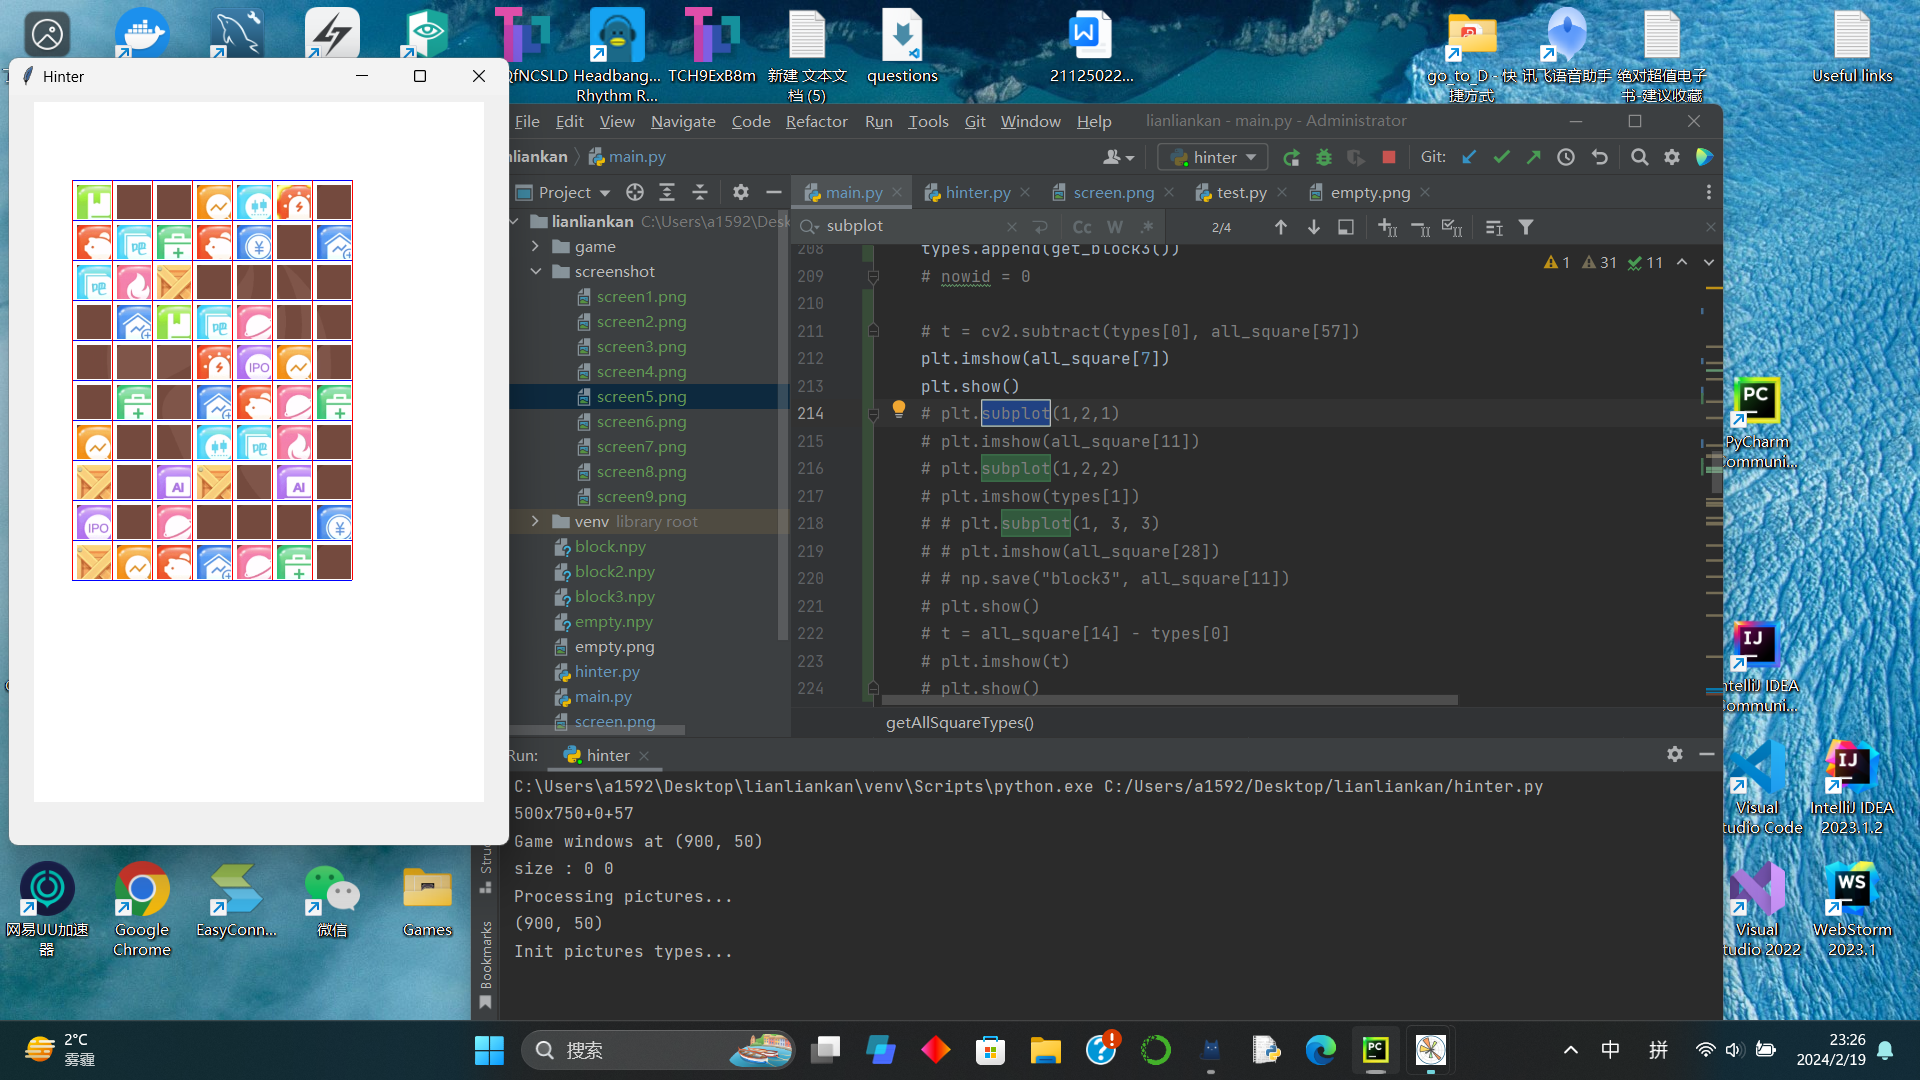
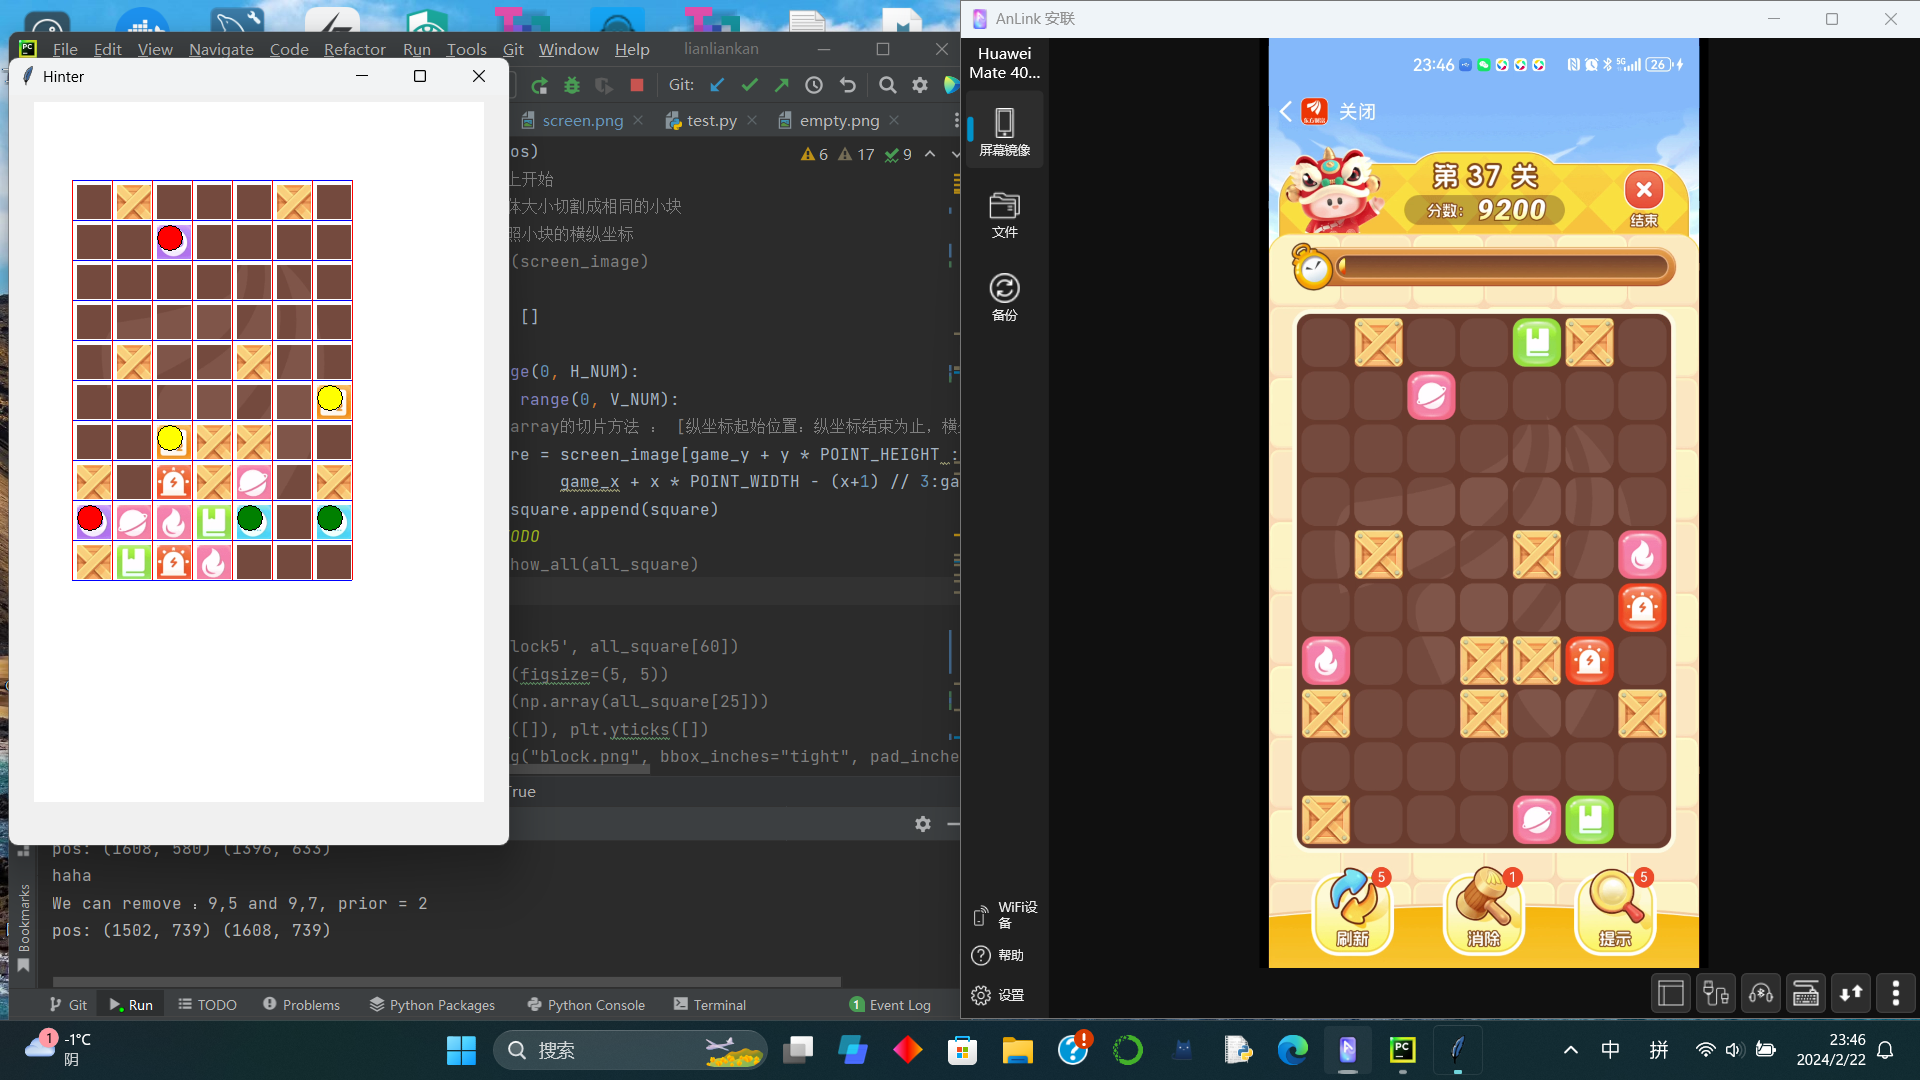
final version

diff --git a/hinter.py b/hinter.py
@@ -18,8 +18,8 @@ from main import getAllSquareTypes, getAllSquareRecord, canConnect
 DEBUG = False # 如果玩的是自带的游戏，设为True,反之设为false
 WINDOW_TITLE = "LetsView[屏幕镜像]"
 # 时间间隔随机生成 [MIN,MAX]
-TIME_INTERVAL_MAX = 0.6
-TIME_INTERVAL_MIN = 1
+TIME_INTERVAL_MAX = 0.1
+TIME_INTERVAL_MIN = 0.15
 # 游戏区域距离顶点的x偏移
 MARGIN_LEFT = 400 # 410
 # 游戏区域距离顶点的y偏移
@@ -36,15 +36,17 @@ POINT_HEIGHT = 53
 EMPTY_ID = 0
 BLOCK_ID = 5
 # 切片处理时候的左上、右下坐标：
-SUB_LT_X = 8
-SUB_LT_Y = 8
-SUB_RB_X = 42
-SUB_RB_Y = 42
+SUB_LT_X = 10
+SUB_LT_Y = 12
+SUB_RB_X = 44
+SUB_RB_Y = 46
 # 游戏的最多消除次数
 MAX_ROUND = 10000
 WINDOW_X = 900
 WINDOW_Y = 50
 
+GAME_X = 1290
+GAME_Y = 315
 
 def debug_init():
     global WINDOW_TITLE, TIME_INTERVAL_MAX, TIME_INTERVAL_MIN, MARGIN_LEFT, MARGIN_HEIGHT, H_NUM, V_NUM, \
@@ -95,12 +97,14 @@ def getAllSquare(screen_image, game_pos):
     for x in range(0, H_NUM):
         for y in range(0, V_NUM):
             # ndarray的切片方法 ： [纵坐标起始位置：纵坐标结束为止，横坐标起始位置：横坐标结束位置]
-            square = screen_image[game_y + y * POINT_HEIGHT + y // 5:game_y + (y + 1) * POINT_HEIGHT + y // 5,
+            square = screen_image[game_y + y * POINT_HEIGHT :game_y + (y + 1) * POINT_HEIGHT,
                      game_x + x * POINT_WIDTH - (x+1) // 3:game_x + (x + 1) * POINT_WIDTH - (x+1) // 3]
             all_square.append(square)
     if True: # TODO
-        main.show_all(all_square)
+        # main.show_all(all_square)
         pass
+
+    # np.save('block5', all_square[60])
     # plt.figure(figsize=(5, 5))
     # plt.imshow(np.array(all_square[25]))
     # plt.xticks([]), plt.yticks([])
@@ -226,29 +230,29 @@ def hint_one(result, prior):
                                 print('We can remove ：' + str(i) + ',' + str(j) + ' and ' + str(m) + ',' + str(
                                     n) + ", prior =", prior)
                                 hinter.hint(i - 1, j - 1, m - 1, n - 1, prior)
-                                # # 计算当前两个位置的图片在游戏中应该存在的位置
-                                # x1 = game_x + (j - 1) * POINT_WIDTH
-                                # y1 = game_y + (i - 1) * POINT_HEIGHT
-                                # x2 = game_x + (n - 1) * POINT_WIDTH
-                                # y2 = game_y + (m - 1) * POINT_HEIGHT
-                                # print("pos: " + str((x1, y1)) + " " + str((x2, y2)))
-                                # # 模拟鼠标点击第一个图片所在的位置
-                                # win32api.SetCursorPos((x1 + POINT_WIDTH // 2, y1 + POINT_HEIGHT // 2))
-                                # win32api.mouse_event(win32con.MOUSEEVENTF_LEFTDOWN, x1 + POINT_WIDTH // 2,
-                                #                      y1 + POINT_HEIGHT // 2, 0, 0)
-                                # win32api.mouse_event(win32con.MOUSEEVENTF_LEFTUP, x1 + POINT_WIDTH // 2,
-                                #                      y1 + POINT_HEIGHT // 2, 0, 0)
-                                #
-                                # # 等待随机时间 ，防止检测
-                                # time.sleep(random.uniform(TIME_INTERVAL_MIN, TIME_INTERVAL_MAX))
-                                #
-                                # # 模拟鼠标点击第二个图片所在的位置
-                                # win32api.SetCursorPos((x2 + POINT_WIDTH // 2, y2 + POINT_HEIGHT // 2))
-                                # win32api.mouse_event(win32con.MOUSEEVENTF_LEFTDOWN, x2 + POINT_WIDTH // 2,
-                                #                      y2 + POINT_HEIGHT // 2, 0, 0)
-                                # win32api.mouse_event(win32con.MOUSEEVENTF_LEFTUP, x2 + POINT_WIDTH // 2,
-                                #                      y2 + POINT_HEIGHT // 2, 0, 0)
-                                # time.sleep(random.uniform(TIME_INTERVAL_MIN, TIME_INTERVAL_MAX))
+                                # 计算当前两个位置的图片在游戏中应该存在的位置
+                                x1 = GAME_X + (j - 1) * POINT_WIDTH
+                                y1 = GAME_Y + (i - 1) * POINT_HEIGHT
+                                x2 = GAME_X + (n - 1) * POINT_WIDTH
+                                y2 = GAME_Y + (m - 1) * POINT_HEIGHT
+                                print("pos: " + str((x1, y1)) + " " + str((x2, y2)))
+                                # 模拟鼠标点击第一个图片所在的位置
+                                win32api.SetCursorPos((x1 + POINT_WIDTH // 2, y1 + POINT_HEIGHT // 2))
+                                win32api.mouse_event(win32con.MOUSEEVENTF_LEFTDOWN, x1 + POINT_WIDTH // 2,
+                                                     y1 + POINT_HEIGHT // 2, 0, 0)
+                                win32api.mouse_event(win32con.MOUSEEVENTF_LEFTUP, x1 + POINT_WIDTH // 2,
+                                                     y1 + POINT_HEIGHT // 2, 0, 0)
+
+                                # 等待随机时间 ，防止检测
+                                time.sleep(random.uniform(TIME_INTERVAL_MIN, TIME_INTERVAL_MAX))
+
+                                # 模拟鼠标点击第二个图片所在的位置
+                                win32api.SetCursorPos((x2 + POINT_WIDTH // 2, y2 + POINT_HEIGHT // 2))
+                                win32api.mouse_event(win32con.MOUSEEVENTF_LEFTDOWN, x2 + POINT_WIDTH // 2,
+                                                     y2 + POINT_HEIGHT // 2, 0, 0)
+                                win32api.mouse_event(win32con.MOUSEEVENTF_LEFTUP, x2 + POINT_WIDTH // 2,
+                                                     y2 + POINT_HEIGHT // 2, 0, 0)
+                                time.sleep(random.uniform(TIME_INTERVAL_MIN, TIME_INTERVAL_MAX))
                                 # 执行消除后返回True
                                 return True
     return False
@@ -258,12 +262,13 @@ def autoHint(squares):
     # 重复一次消除直到到达最多消除次数
     while cnt < 3:
         print('haha')
+        time.sleep(0.4)
         if not hint_one(squares, cnt):
             # 当不再有可消除的方块时结束 ， 返回消除数量
-            return cnt
-        # time.sleep(1.0)
+            break
         cnt += 1
 
+    win32api.SetCursorPos((200, 600))
 
 if __name__ == '__main__':
     root = tk.Tk()
@@ -278,8 +283,8 @@ if __name__ == '__main__':
     hinter.game_pos = game_pos
     # time.sleep(1)
     # # ii. 获取屏幕截图
-    # screen_image = main.getScreenImage()
-    screen_image = cv2.imread("screenshot/screen9.png")[:, :, ::-1]  # TODO
+    screen_image = main.getScreenImage()
+    # screen_image = cv2.imread("screenshot/screen7.png")[:, :, ::-1]  # TODO
     # # # iii. 对截图切片，形成一张二维地图
     all_square_list = getAllSquare(screen_image, game_pos)
     # # iii-2 创建窗体并绘制图像

diff --git a/main.py b/main.py
@@ -32,10 +32,10 @@ POINT_HEIGHT = 53
 # 空图像编号
 EMPTY_ID = 0
 # 切片处理时候的左上、右下坐标：
-SUB_LT_X = 8
-SUB_LT_Y = 8
-SUB_RB_X = 42
-SUB_RB_Y = 42
+SUB_LT_X = 10
+SUB_LT_Y = 12
+SUB_RB_X = 44
+SUB_RB_Y = 46
 # 游戏的最多消除次数
 MAX_ROUND = 10000
 WINDOW_X = 900
@@ -127,23 +127,23 @@ def get_empty_square():
 
 def get_block():
     content = np.load('block.npy')
-    return content
+    return content[SUB_LT_Y:SUB_RB_Y, SUB_LT_X:SUB_RB_X]
 
 def get_block2():
     content = np.load('block2.npy')
-    return content
+    return content[SUB_LT_Y:SUB_RB_Y, SUB_LT_X:SUB_RB_X]
 
 def get_block3():
     content = np.load('block3.npy')
-    return content
+    return content[SUB_LT_Y:SUB_RB_Y, SUB_LT_X:SUB_RB_X]
 
 def get_block4():
     content = np.load('block4.npy')
-    return content
+    return content[SUB_LT_Y:SUB_RB_Y, SUB_LT_X:SUB_RB_X]
 
 def get_block5():
     content = np.load('block5.npy')
-    return content
+    return content[SUB_LT_Y:SUB_RB_Y, SUB_LT_X:SUB_RB_X]
 
 def getAllSquare(screen_image, game_pos):
     print('Processing pictures...')
@@ -191,7 +191,7 @@ def getAllSquare(screen_image, game_pos):
 def same_image(img1, img2):
     b = abs(img1.astype("int32") - img2.astype("int32"))
     # 若标准差全为0 即两张图片没有区别
-    return np.percentile(b, 80) < 18
+    return np.percentile(b, 80) < 19
 
 
 def isImageExist(img, img_list):
@@ -222,16 +222,16 @@ def getAllSquareTypes(all_square):
     # plt.imshow(all_square[60])
     # plt.show()
     # plt.subplot(1,3,1)
-    # plt.imshow(all_square[11])
+    # plt.imshow(all_square[25])
     # plt.subplot(1,3,2)
-    # plt.imshow(all_square[17])
+    # plt.imshow(all_square[61])
     #
     # plt.subplot(1, 3, 3)
-    # plt.imshow(types[1])
-    # np.save("block5", all_square[62])
+    # plt.imshow(all_square[51])
+    # # np.save("block5", all_square[62])
     # plt.show()
-    # # np.save("block3",all_square[17])
-    # t = abs(all_square[6].astype("int32") - all_square[68].astype("int32"))
+    # # # np.save("block3",all_square[17])
+    # t = abs(all_square[25].astype("int32") - all_square[61].astype("int32"))
     # print( np.percentile(t, 80))
     # plt.imshow(t)
     # plt.show()
